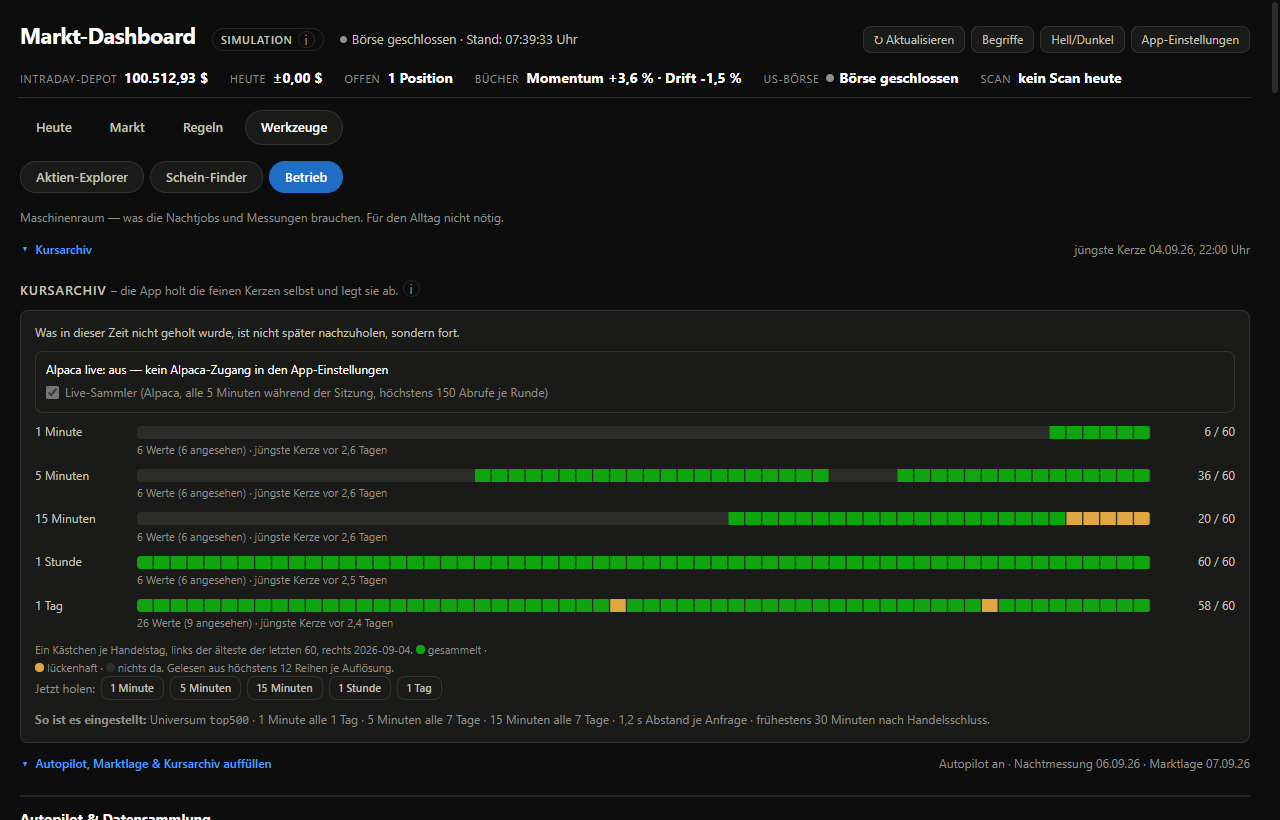
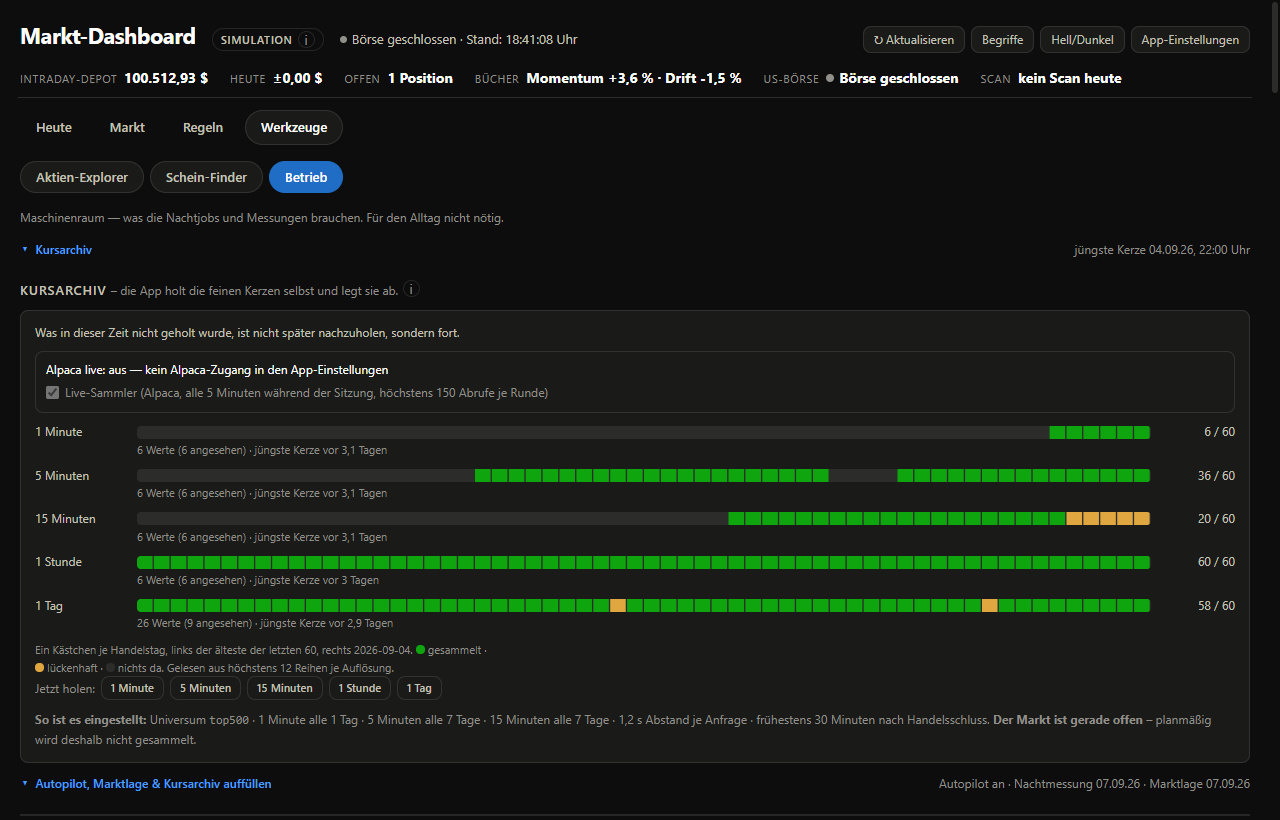
Wiki: Nachbesserung abgenommen, Aufnahmen erneuert, Fehlerform "Gegenprobe misst das Falsche"

diff --git a/wiki/offene-auftraege.md b/wiki/offene-auftraege.md
@@ -20,7 +20,7 @@ trägt das Ergebnis in die betroffene Wiki-Seite ein — mit Fundstelle.*
 | 23 | **Anhang an Ort und Stelle + Live-Menge = alle Aktien** *(Wilhelm 06.09., Formular: „Alle 3.232 Aktien, Folgeauftrag Anhang an Ort und Stelle")* | ✅ **GELIEFERT 07.09. ~00:00, abgenommen 07.09. 07:40** (23e55ae; `uebergabe/anhang-an-ort-2026-09-07.md`; PM-Lauf im Worktree: 4.743 grün, Kontrolle 42/42): Journal `<JAHR>.json.journal` neben der Datei (alte Länge, Schnitt, alte Bytes der zwei Kopf-Spannen und des Schwanzes, SHA-256), Reparatur byteidentisch, Abbruch an drei Stellen getestet, **eine zerrissene Datei sieht heil aus** (Ziffer im Sitzungsbereich verloren — nur die alten Bytes retten); Schreibvolumen je Runde 8.020 MB → 156 MB (Faktor 51); Live-Menge **3.067** aus `_lebenszeit.json` (≤ 30 Tage seit letztem Tagesbalken), nicht die 3.232 der Namensliste. Verbrauch ~310k/180k. Offen (Entscheid): `sitzungen`-Schwanz wächst über das Jahr (Dezember ~500 MB je Runde) — nur beim Tageswechsel neu schreiben oder an den Dateianfang; Lebenszeit-Datei altert (Phase L periodisch); 17 Werte ohne 2026-Datei. Auftrag war: `jahrSchreiben` hängt ohne Kopie an — Journal (alte Länge, alter Schwanz, alte Kopf-Spannen) vor den Daten, `fsync`, Gegenlesen, Journal weg; `journalReparieren` byteidentisch, aufgerufen unter der Sperre (jedes Schreiben, `--nachholen`, Holen) und als Befund in `--pruefen`; Leser reparieren nicht. Dann `liveMengeJetzt()` = alle heute geführten Werte aus `_lebenszeit.json` (≈3.232), Schreibvolumen je Runde in Protokoll und Panel-Zeile. Tests: Abbruch an drei Stellen, Schreibvolumen-Schranke, keine 500 mehr im Code. |
 | 24 | **QS Live-Sammler + Nachlauf vor dem Release** *(QS-Rolle, nur lesen)* | ✅ **GELIEFERT 07.09. 03:16** (`uebergabe/qs-live-sammler-2026-09-06.md`, Anhang mit Proben je Punkt; geprüft dc4ebce): **38 Befunde — 1 × Schwere 1** (F1 Sperre nicht atomar + geteilter Temp-Pfad + Lösen ohne Eigentümer → Datei ohne Schwanz bei `ok:true`, mit zwei Prozessen reproduziert), **11 × Schwere 2** (F2 Ruhe-Regel legt in der Vorbörse 89–96 % der Menge still — **der Dienstag-Blocker**; F3 Deckel-Stillstand ab 8 Tagen Rückstand; F4 drei leere 200 → alles ruht; F5 werfender Schreibvorgang tötet die Runde; F6 Fenster 20:16 verliert 0–4 Balken; F7 Nachlauf überschreibt `_fortschritt.json`; F8 Rückgabewert immer 0; F9 letzte 1h-Kerze fehlt bis zur Nachbörse; F10 Viewer 1m liest bei `~2`-Reihen den falschen Ordner; F11 durch Nr. 23 erledigt; F12 Manifest-Fehlalarm), 26 × Schwere 3. Übergabe-Zahlen aus Nr. 4 widerlegt (35 Seiten statt 409; erste Runde Di 04:16). Nicht prüfbar ohne Schlüssel: explizites `end` bei der Gratisstufe → PM misst 07.09. (Aufgabe „Probe End"). Verbrauch 116k Sitzung **+ ~4,2 Mio in Agenten** (Ultracode-Workflow mit 44 Agenten, 39 am Nutzungslimit abgebrochen). Zwischenfall: Junction aus der Git-Bash nicht gelöst → `node_modules/.bin` erneut weg, per `npm install` repariert (Fehlerform). Auftrag war: (`uebergabe/auftrag-qs-live-sammler-2026-09-06.md`, 200k; **parallel** heute Nacht, in einem Worktree unter dem Kratzordner — Junction vor `worktree remove` lösen): elf Prüfpunkte (Sitzungsfenster an Zeitumstellung/Halbtag/Feiertag, fertig-Grenze, Abrufplan nachgerechnet für 500 und ≈3.232, Seiten/Deckel, Fehlerpfade 429/5xx/leer-200, Sperre, Schreibroutine an Jahresgrenze und Kürzel-Wiederverwendung, Verdichtung, `nachholEnde` an Sonntag/Feiertag, Ergebnisse der Kette, drei Gegenproben selbst). Übergabe `qs-live-sammler-2026-09-06.md`, Befunde nach Schwere; kein Code, keine Issues. |
 | 25 | **Signalstudie NEU auf Minutenbasis — Vorregistrierung + Messgerät** *(Wilhelm 06.09.: „sau viele Tokens" → jetzt statt später)* | ✅ **MESSGERÄT GELIEFERT 07.09. 09:41, abgenommen 07.09. 11:30** (e422a6c, ec56c25, 2c90e57, 2455d58; `uebergabe/signalstudie-minuten-2026-09-06.md`; PM-Lauf `node test.js` 76 OK / 0 FEHLT). **Vorregistrierung vor der ersten Rechnung** (234 Konfigurationen = 13 Detektoren × 1m/5m/15m × Richtung × 3 Haltedauern; Split 2016–2023-02-06 / 2023-02-07–2026-08-31, Urteil ab 2021; zwei Placebos, Topf als Nullpunkt, Überlebens-Differenz; nur CS/ADRC — 758 Nicht-Aktien standen im „Universum"). **Auflösung:** 1 h ist in allen vier Umsatzklassen entscheidbar, 3 h und „bis Schluss" in den zwei liquiden nicht (nur Obergrenzen); im Piloten schon se_B 0,0056 Pp bei der dichtesten Konfiguration, also schärfer als die Planformel. **Prüfungen (76):** Positivkontrolle trifft die gepflanzte Kante exakt, Placebo A in allen 9 Zellen im Band (|t| ≤ 1,68 über 2.660 Tage, 0 von 117 Einzel-Placebos gefallen), Gegenprobe „geteilter Kurs" schnappt zu und wird vermieden, Detektor-Gleichheit gegen `quant.js` 0 Abweichungen, Verdichtung = `verdichtenMinuten`. **Pilot v3** (20 Reihen, alle Jahre): 204 Dateien, 12,3 Mio Kerzen, 0 Abbrüche, k₁ = 0 → kein Befund über den Markt (20 Reihen). Verbrauch ~595k/400k (Sitzungslimit mitten in zwei Workflows, Kern-Umbau nach der Rechenwand). **Offen:** Cent-Boden beziffern (PM: ja, vor dem Vollauf), dann **Vollauf durch den PM** — 5m/15m acht Teile à ≈ 7 h, 1m 369 h (Wilhelms Entscheid). |
-| 26 | **Nachbesserung Live-Sammler + Nachlauf nach der QS** *(vor dem Release)* | 🔵 **Auftrag geschrieben** (`uebergabe/auftrag-nachbesserung-live-sammler-2026-09-07.md`, 250k; **wartet auf `sammel-2026-09-07.md`**, dann einziger Code-Chat): Pflicht F2 (Ruhe erst im regulären Handel, `aktuell`/`ruhend` im Panel), F1 (Sperre `wx`, Eigentümer-Lösen, `--holen` unter Sperre, Schreib-Race gegen das Journal), F4, F5/F16/F18/F21, F6/F23, F14 (403 mit `end` → ohne `end`), F7/F27, F8/F32, F9, F10, F13, F3/F19/F20 (Zeitscheibe am Deckel — darf als Einziges offen bleiben); klein F15/F17/F12/F28/F26/F29/F36/F33. QS-Proben als Gegenproben vorher rot/nachher grün, Abschnitt 86. Danach die Wache, dann Di 08.09. Wilhelms Abnahmetest. |
+| 26 | **Nachbesserung Live-Sammler + Nachlauf nach der QS** *(vor dem Release)* | ✅ **GELIEFERT 07.09. 18:35, abgenommen 07.09. 19:00** (c03739d + Release-Notiz 10f6d49; `uebergabe/nachbesserung-live-sammler-2026-09-07.md`; PM-Lauf 4.879 grün, UI-Probe grün): **12 Pflichtbefunde behoben**, jeder mit der QS-Probe vorher rot / nachher grün. Die zwei entscheidenden Zahlen: der Sammler hätte am Dienstag **96,2 % der regulären Balken nicht geholt, jetzt 0,00 %** (1.009.345 von 1.009.345 Balken des 03.09. flossen in die Schreibroutine), und zwei Prozesse hatten die Archivsperre in **20 von 20 Runden gleichzeitig, jetzt in 0 von 20**. Dazu: leerer Block = Quellenfehler statt Ruhe, Ausnahme je Wert statt Rundenabbruch, Fenster bis 20:21, 403 mit `end` → Wiederholung ohne `end`, Nachlauf schreibt nur seinen Zweig in `_fortschritt.json` (Zähler additiv), Wrapper geben den Rückgabewert weiter, letzte Sitzungsperiode im Chart, Reihenwahl im 1m-Viewer, Raster in Millisekunden, Zeitscheibe statt Deckel-Abriss; klein F12/F15/F21/F22/F28/F31/F37. Drei Altklinken **schärfer** gezielt (83.4 Kante auf die Sekunde, 83.9, 84.4 mit neuer Gegenprobe). Suite 4.794 → 4.879, Abschnitt 87 mit 13 Gegenproben. **Offen weitergereicht:** F26/F29 (soll der Nachlauf die Lebenszeit fortschreiben — Entscheid), F17, F33, F36. **Nebenbefund:** fünf der QS-Proben maßen selbst das Falsche (Sperre am Lesen statt am Besitz, eingefrorene Modulkopie, Attrappe ohne `end`-Wirkung, Verlustzählung am falschen Ende, Prüfung auf eine Schreibweise) — korrigierte Fassungen im Kratzordner jener Sitzung, nicht im Repo. |
 | 5 | **Alpaca-Vollsammlung Z1c — der Vollauf** | ✅ **FERTIG 05.09. 14:18** (Aufgabe seit 04.09. 07:50): **47.419 Dateien, 2.616.653.566 Kerzen, 120,57 GB, 0 Fehler**, 52.892 Symbol-Jahre erledigt; E: 1.526 GB frei. Vollprüfung `--pruefen` über alles vom PM am 06.09. 17:00 als Aufgabe gestartet (Log im PM-Scratchpad, Ergebnis geht in Nr. 6). Erstes Kursarchiv des Projekts ohne Überlebensverzerrung, ab 2016, minütlich. |
 | 6 | **Nacharbeiten zur Vollsammlung** | ✅ **GELIEFERT 06.09. 22:03 + 07.09. 07:35 (7d472e7), abgenommen 07.09. 08:00 mit Auflagen (F7/F8 → Nr. 26)** — Kette 21:55–00:36: `--ableiten` 79 min (7.184 Kopien in 1.437 Ordnern, 76 Werte ohne Kursfaktor ausgelassen, 0 Fehler), `--manifest` (52.312 + 7.184 Einträge, vom QS-Chat gegen die Platte und drei SHA-256 nachgerechnet), `_luecken.json` (3,25 % fehlende Handelstage, davon 8,0 % bei den Verschwundenen, 0,52 % bei den übrigen), `_lebenszeit.json` ergänzt (8.348 → 8.348 Schlüssel), `--pruefen MNST SPGI AAPL --gegen-yahoo` ohne Abweichung. Aufgabe „Alpaca-Nachholen" 23:30 legt der PM **nach Nr. 26** an (F7 würde sonst die Vollsammlungs-Zähler überschreiben). Ursprünglich: Werkzeuge GELIEFERT 06.09. 22:03 (a8b7d44; `uebergabe/vollsammlung-nacharbeiten-2026-09-06.md`, Zahlen-Platzhalter werden nach der Kette gefüllt): `--nachholen` (Tagesnachlauf ab dem letzten Stempel je Wert, Sammelabrufe über den Plan des Live-Sammlers, geteilte Sperre, fortsetzbar, ohne Datei keine Frage), `--manifest` (SHA-256/Kerzen/Stempel je Datei, `_luecken.json`, Minuten-Lebenszeit ergänzt), Manifestvergleich in `--pruefen`, Komma-Falle der Wrapper behoben (`liste()` durch Komma **und** Leerzeichen, laute Meldung bei Unbekannten). Vollprüfung des PM (17:00–21:23): **0 Verstöße in 5 Kontrollen** — 52.312 Dateien, 2,95 Mrd Kerzen, 136,2 GB (die 47.419/120,6 GB vom 05.09. waren nur der zweite Laufabschnitt). Suite 4.636 → 4.680, 5 Gegenproben. **Läuft:** Aufgabe „Markt-Dashboard Nacharbeiten" seit 21:55 (Sicherungsliste → `--ableiten` alle → `--manifest` → Prüfung MNST/SPGI/AAPL gegen Yahoo), Ende gegen 00:10; der Chat wartet, füllt die Übergabe, committet Protokolle + `wiki/aufnahmen/` und schreibt `sammel-2026-09-06.md`. **PM danach:** Teil 2 abnehmen, Aufgabe „Markt-Dashboard Alpaca-Nachholen" täglich 23:30 anlegen (Befehl in der Übergabe §5; erster Lauf Mo 07.09. holt Fr 04.09. nach), Wiki-Zahlen aus §7 übernehmen. |
 | 7 | **Archiv-Zusammenführung Z1b → Z2 → Z3 → Z4** | 🔵 **Nach Nr. 5.** Z1b Lesefassade (`window.Archiv` über IPC aus den Dateien, Rückfall Store); **vor Z2 ein Formular:** Leser direkt ans Alpaca-Archiv hängen (ändert die Messbasis) oder ans Yahoo-Dateiarchiv; Z3 Schreiber; Z4 Store stilllegen. Stufen und Reihenfolge in [archiv-zusammenfuehrung.md](archiv-zusammenfuehrung.md) §5. |

diff --git a/wiki/aufnahmen/struktur.md b/wiki/aufnahmen/struktur.md
@@ -3,7 +3,7 @@ tags: [bauplan]
 ---
 # Struktur der Oberfläche — mit Aufnahmen
 
-*Erzeugt am 2026-09-07 von `tools/ui-struktur.js` aus der **laufenden** Oberfläche der Version **8.43.0** — nicht aus `index.html`. Instanz: isolierte Kunstdaten-Instanz (`tools/kunstinstanz.js`), 1280 px breit, ohne Netz; die Zahlen darin sind erfunden, die Struktur ist die echte. Wer die Oberfläche umbaut, fährt das Werkzeug danach einmal — ein Aufruf erneuert Bilder und Seite: `.\node_modules\.bin\electron.cmd tools\ui-struktur.js`.*
+*Erzeugt am 2026-09-07 von `tools/ui-struktur.js` aus der **laufenden** Oberfläche der Version **8.44.0** — nicht aus `index.html`. Instanz: isolierte Kunstdaten-Instanz (`tools/kunstinstanz.js`), 1280 px breit, ohne Netz; die Zahlen darin sind erfunden, die Struktur ist die echte. Wer die Oberfläche umbaut, fährt das Werkzeug danach einmal — ein Aufruf erneuert Bilder und Seite: `.\node_modules\.bin\electron.cmd tools\ui-struktur.js`.*
 
 **Was hier steht:** ▪ = Überschrift `h2`, · = Überschrift `h3`, ▸ = Klappe (`<details>`). Die Einrückung ist die echte Verschachtelung: eine Klappe **in** einer Klappe steht eine Stufe weiter rechts. `[#kennung]` ist die `id` des Blocks. „verborgen“ heißt: der Block steht in der Seite, ist aber ausgeblendet, bis etwas passiert (z. B. Explorer → „Kennzahlen“ erst nach dem Öffnen eines Werts).
 
@@ -88,7 +88,7 @@ Werkzeuge (data-tab="werkzeuge")
 └─ Betrieb (data-sub="betrieb", #sub-betrieb)
    │  ▸ Klappe: Kursarchiv  — Statuszeile: „jüngste Kerze 04.09.26, 22:00 Uhr“
    │    ▪ Kursarchiv – die App holt die feinen Kerzen selbst und legt sie ab.  [in #sub-archiv]
-   │  ▸ Klappe: Autopilot, Marktlage & Kursarchiv auffüllen  — Statuszeile: „Autopilot an · Nachtmessung 06.09.26 · Marktlage 07.09.26“
+   │  ▸ Klappe: Autopilot, Marktlage & Kursarchiv auffüllen  — Statuszeile: „Autopilot an · Nachtmessung 07.09.26 · Marktlage 07.09.26“
    │    · Autopilot & Datensammlung  [#abAutopilot]
    │    · Autopilot – die App verbessert sich selbst  [in #sub-auswertung]
    │    ▸ Klappe: Letzte Messung im Detail (Ranking, Empfehlung, Datenbasis)  [in #sub-auswertung]
@@ -168,7 +168,7 @@ Dialoge (gehören zu keinem Reiter)
 
 ### Markt → Überblick
 
-`#sub-marktueberblick` · 15 Blöcke · 7470 Zeichen sichtbarer Text
+`#sub-marktueberblick` · 15 Blöcke · 7490 Zeichen sichtbarer Text
 
 - ▪ Marktüberblick
 - ▪ Sektoren – nach Marktkapitalisierung gewichtet, Branchen aus den SEC-Stammdaten.
@@ -272,11 +272,11 @@ Dialoge (gehören zu keinem Reiter)
 
 ### Werkzeuge → Betrieb
 
-`#sub-betrieb` · 34 Blöcke · 17233 Zeichen sichtbarer Text
+`#sub-betrieb` · 34 Blöcke · 17300 Zeichen sichtbarer Text
 
 - ▸ Klappe: Kursarchiv  — Statuszeile: „jüngste Kerze 04.09.26, 22:00 Uhr“
   - ▪ Kursarchiv – die App holt die feinen Kerzen selbst und legt sie ab.  [in #sub-archiv]
-- ▸ Klappe: Autopilot, Marktlage & Kursarchiv auffüllen  — Statuszeile: „Autopilot an · Nachtmessung 06.09.26 · Marktlage 07.09.26“
+- ▸ Klappe: Autopilot, Marktlage & Kursarchiv auffüllen  — Statuszeile: „Autopilot an · Nachtmessung 07.09.26 · Marktlage 07.09.26“
   - · Autopilot & Datensammlung  [#abAutopilot]
   - · Autopilot – die App verbessert sich selbst  [in #sub-auswertung]
   - ▸ Klappe: Letzte Messung im Detail (Ranking, Empfehlung, Datenbasis)  [in #sub-auswertung]

diff --git a/wiki/log.md b/wiki/log.md
@@ -398,3 +398,4 @@ Fundstelle im Repo"** markiert — die zugehörigen Studienberichte liegen auße
 - 07.09.2026 (PM, 08:40) — **Glocke abgenommen** (7d53944; 4.794 grün, UI-Probe grün, WAV an Wilhelm geschickt). Sammelauftrag 07.09. komplett (390k/350k, Überziehung in Teil 1). Nebenbefund des Code-Chats: `node_modules/electron/dist` war weg (Junction-Falle des QS-Chats), aus dem lokalen Cache repariert. **Jetzt frei für Nr. 26** (Nachbesserung), danach die Wache.
 - 07.09.2026 (PM, 08:05) — Studien-Chat hat Vorregistrierung + Messgerät-Kern committet und vier Fragen gestellt; **beantwortet und in [entscheide.md](entscheide.md) abgelegt** (Aufteilung nach Zeitrahmen statt Klasse, 80-%-Regel bleibt, Endpunkt bleibt roh mit Herabstufung, Short nie „handelbar" wegen ungemessener Leihe). Wilhelm: „manche sind durch, Studie läuft noch" — offen ist damit nur noch **Nr. 26 Nachbesserung**, danach die Wache.
 - 07.09.2026 (PM, 11:30) — **Signalstudie-Messgerät abgenommen** (eigener Lauf 76 OK). Wilhelm meldete „die Nachbesserung ist fertig" — **nachgeprüft: sie ist nicht gelaufen** (kein Commit am Sammler seit 23e55ae, keine Übergabe, `kerzenquelle.js` unverändert seit 04.09., keine Sitzung hat die Auftragsdatei je geöffnet). Verwechslung mit dem Studien-Chat. Nr. 26 bleibt der Blocker vor der Wache und vor dem ersten Handelstag. Nebenbei geprüft und entkräftet: die 340 Reihen mit fehlenden Jahresdateien stehen vollständig in der Lückenliste.
+- 07.09.2026 (PM, 19:00) — **Nr. 26 abgenommen** (c03739d; eigener Lauf 4.879 grün, UI-Probe grün). Der Dienstag-Blocker ist weg: 96,2 % nicht geholte Balken → 0,00 %; Sperrbesitz doppelt 20/20 → 0/20. Damit ist alles für das Release beisammen (Live-Sammler, Anhang an Ort und Stelle, Live-Menge alle, Glocke, Nachbesserung). **Wilhelm startet die Wache.** Danach lege ich die Aufgabe „Alpaca-Nachholen" 23:30 an; morgen 10:16 unserer Zeit beginnt die Vorbörse und damit der Abnahmetest. Neue Fehlerform: die Gegenprobe misst das Falsche (fünf Fälle in einer Nacht).

diff --git a/wiki/fehlerformen.md b/wiki/fehlerformen.md
@@ -149,3 +149,6 @@ Der QS-Chat hat die Falle „`git worktree remove` folgt der Junction" gekannt u
 
 ## Der Agentenschwarm zählt nicht mit (07.09.2026)
 Ein QS-Chat mit eingeschaltetem Ultracode startete einen Workflow mit 44 Agenten (je Prüfpunkt ein Prüfer, je Befund ein Gegenprüfer): **~4,2 Mio Token außerhalb des Sitzungszählers** bei 116k im Zähler, und 39 Agenten brachen am Nutzungslimit ab — die Gegenprüfer-Stufe fiel aus, der Chat musste die Schwere-1-Reproduktion selbst fahren. Das Ergebnis war gut, aber die Budgetregel (N Agenten = N × Klassenwert) gilt auch für Workflows: Agentenzahl in den Auftrag schreiben, oder Ultracode für QS-Chats aus.
+
+## Die Gegenprobe misst das Falsche (07.09.2026)
+Der Nachbesserungs-Chat fand beim Nachfahren der QS-Proben **fünf**, die selbst nicht maßen, was sie behaupteten: eine Sperrprobe setzte ihr Merkmal, sobald das **Lesen** „frei" sagte, statt auf den Rückgabewert des **Setzens** zu schauen; eine Probensammlung lud eine **eingefrorene Kopie** des geprüften Moduls und maß deshalb nach jeder Änderung weiter den alten Stand; eine Quell-Attrappe lieferte dieselbe Seitenzahl unabhängig vom angefragten Fenster, wodurch jede Zeitscheibe unsichtbar blieb; eine Verlustzählung zählte alle Balken jedes Werts, der **irgendwann** ruhte, auch wenn er später wieder aufwachte; eine Prüfung suchte wörtlich nach einer Schreibweise, die es nicht mehr gibt, während die Eigenschaft unverändert galt. Lehre: **eine Gegenprobe ist selbst ein Messgerät und braucht ihre eigene Positivkontrolle.** Wer eine fremde Probe als „vorher rot / nachher grün" benutzt, prüft zuerst, ob sie am geänderten Stand überhaupt etwas sehen kann — sonst ist Grün nur die Abwesenheit von Messung. Siehe auch „Prüfwerkzeug hält leeren Fall für Normalfall".

diff --git a/wiki/erledigt.md b/wiki/erledigt.md
@@ -11,6 +11,7 @@ ist nur das Register, damit [offene-auftraege.md](offene-auftraege.md) offen ble
 
 | Datum | Auftrag | Ergebnis in einem Satz | Fundstelle |
 |---|---|---|---|
+| 07.09. | Nachbesserung Live-Sammler + Nachlauf (Nr. 26) | 12 QS-Befunde behoben: nicht geholte Balken am ersten Handelstag von 96,2 % auf 0,00 %, gleichzeitiger Sperrbesitz von 20/20 auf 0/20, dazu Fehlerpfade, Fenster, Deckel, Chart und Wrapper; Suite 4.794 → 4.879 | `uebergabe/nachbesserung-live-sammler-2026-09-07.md`, c03739d |
 | 07.09. | Signalstudie Minuten: Vorregistrierung + Messgerät (Nr. 25) | 234 Konfigurationen vorregistriert, Messgerät gebaut und mit 76 Prüfungen belegt (Positivkontrolle exakt, Placebo im Band, „geteilter Kurs" vermieden), Pilot über 20 Reihen ohne Abbruch; Vollauf steht aus | `uebergabe/signalstudie-minuten-2026-09-06.md`, 2455d58 |
 | 07.09. | Glocke wie an der NYSE (Nr. 19) | Elektrische Klingel aus einem reinen Plan (`markt/glocke.js`), Öffnung 8 s / Schluss 10 s + Hammer, Probe-Auswahl und Lautstärke; Suite 4.744 → 4.794; WAV zum Anhören liegt bei | `uebergabe/nyse-glocke-2026-09-05.md`, 7d53944 |
 | 07.09. | Anhang an Ort und Stelle + Live-Menge alle (Nr. 23) | Journal statt Temp-Kopie: Schreibvolumen je Runde 8 GB → 156 MB, Reparatur byteidentisch nach Abbruch an drei Stellen; Live-Menge 3.067 geführte Reihen aus der Lebenszeit; Suite 4.680 → 4.744 | `uebergabe/anhang-an-ort-2026-09-07.md`, 23e55ae |
